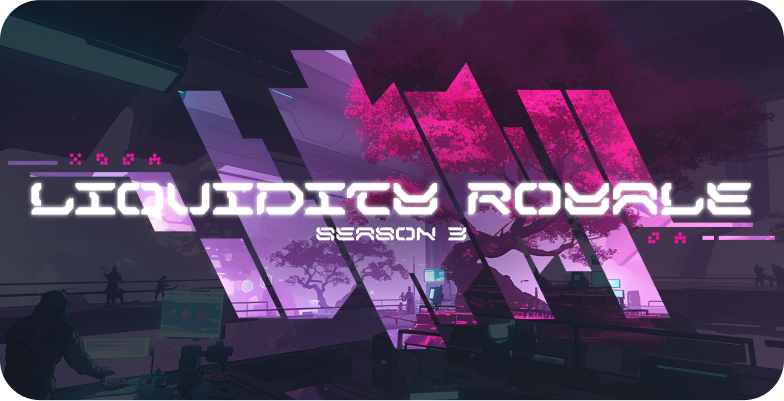
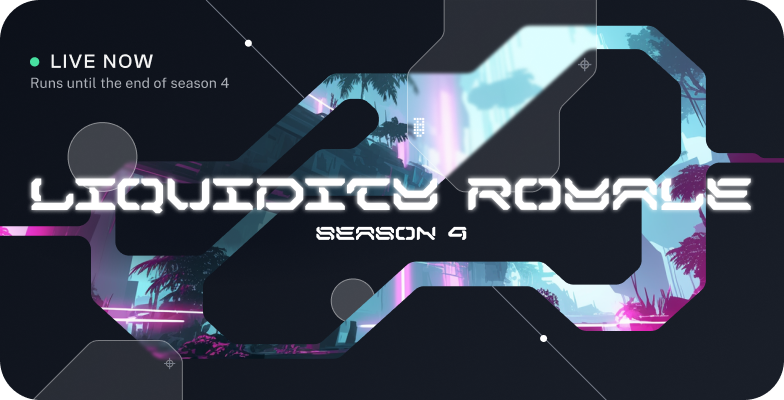
update cards

diff --git a/src/lib/shared/components/FeaturedCampaigns/cards.ts b/src/lib/shared/components/FeaturedCampaigns/cards.ts
@@ -2,22 +2,7 @@ import type { CampaignCardType } from './types';
 
 export const cards: CampaignCardType[] = [
   {
-    title: 'TAKOTAKO Tales x Taiko',
-    text: 'Score 8,888 TAIKO and a Taikoon. Join the TAKOTAKO Galxe campaign and complete tasks.',
-    btn: {
-      text: 'Join now',
-      external: true,
-      destination: `https://app.galxe.com/quest/VnWkqAtB2Row8KdwpFHW9n/GC6MbtpuTp`,
-    },
-    images: {
-      sm: '/campaign/cards/sm/takotako.png',
-      md: '/campaign/cards/xl/takotako.png',
-      lg: '/campaign/cards/xl/takotako.png',
-      xl: '/campaign/cards/xl/takotako.png',
-    },
-  },
-  {
-    title: 'Evolve your Faction Badges',
+    title: 'New look, who ‘dis?',
     text: 'The Devs are out in full force looking for new recruits to join their Faction. Will you join them?',
     btn: {
       text: 'Recruit now',
@@ -25,19 +10,34 @@ export const cards: CampaignCardType[] = [
       destination: `profile/`,
     },
     images: {
-      sm: '/campaign/cards/sm/recruit.png',
-      md: '/campaign/cards/xl/recruit.png',
-      lg: '/campaign/cards/xl/recruit.png',
-      xl: '/campaign/cards/xl/recruit.png',
+      sm: '/campaign/cards/sm/newNft.png',
+      md: '/campaign/cards/xl/newNft.png',
+      lg: '/campaign/cards/xl/newNft.png',
+      xl: '/campaign/cards/xl/newNft.png',
     },
   },
   {
-    title: 'Liquidity Royale Season 3',
-    text: 'Supercharge your liquidity and get rewarded for it. Season 3 is offering a massive 1.2M TAIKO tokens!',
+    title: 'Blaze new trails with Thrillblazer S4',
+    text: 'Blaze new trails, fuel Taiko’s momentum, and seize your chance for legendary rewards.',
     btn: {
       text: 'Earn now',
       external: false,
-      destination: 'journeys/liquidity',
+      destination: 'journeys/thrillblazer/4',
+    },
+    images: {
+      sm: '/campaign/cards/sm/thrillblazer.png',
+      md: '/campaign/cards/xl/thrillblazer.png',
+      lg: '/campaign/cards/xl/thrillblazer.png',
+      xl: '/campaign/cards/xl/thrillblazer.png',
+    },
+  },
+  {
+    title: 'Liquidity Royale Season 4',
+    text: 'Compete, conquer and earn! 1 Million TAIKO tokens are up for grabs!',
+    btn: {
+      text: 'Earn now',
+      external: false,
+      destination: 'journeys/liquidity/3',
     },
     images: {
       sm: '/campaign/cards/sm/liquidity-royale.png',
